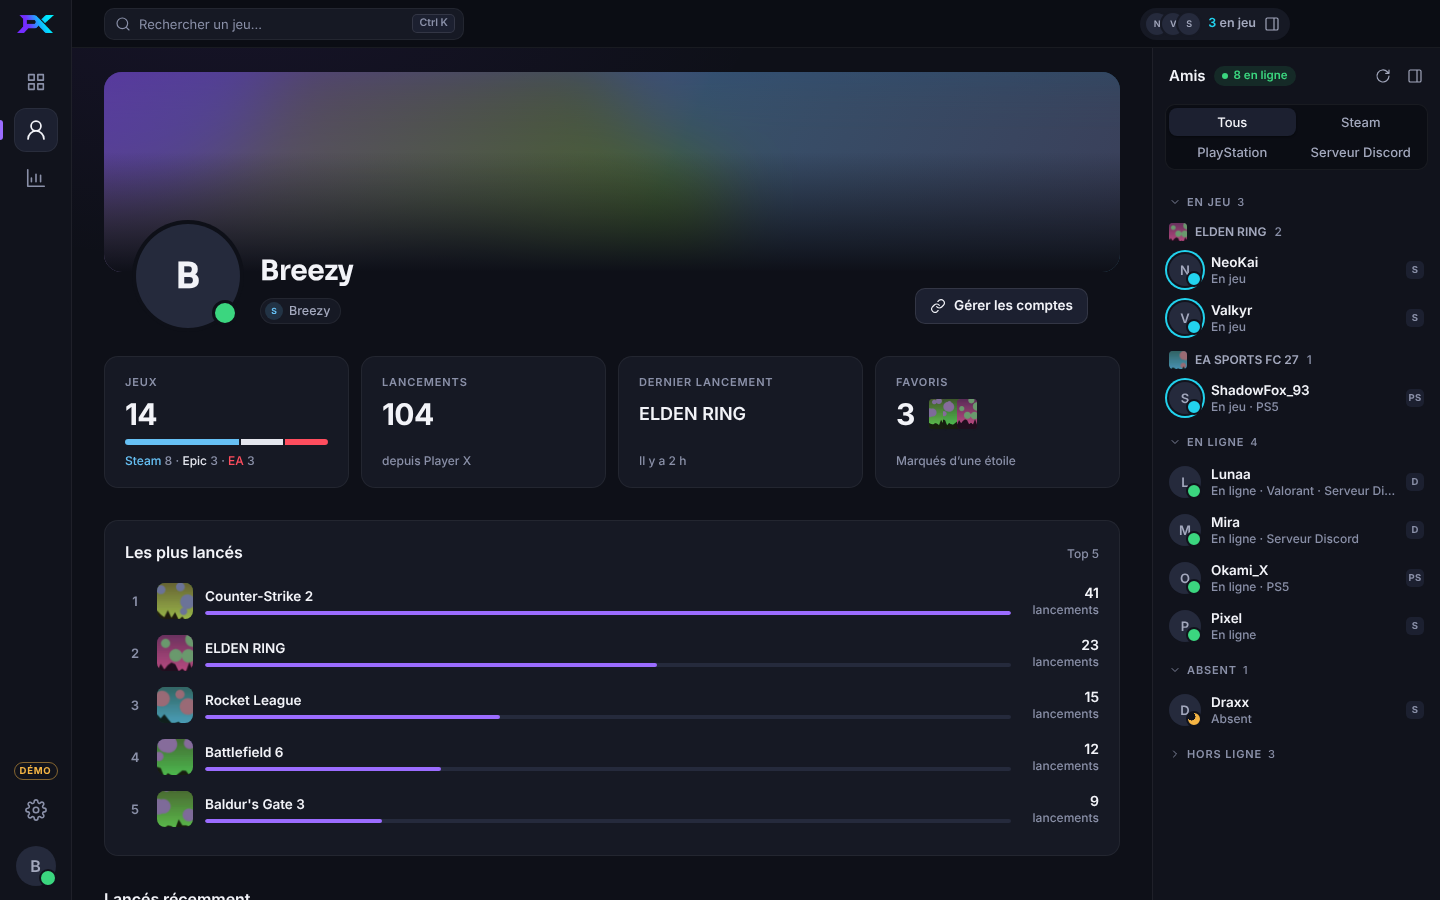
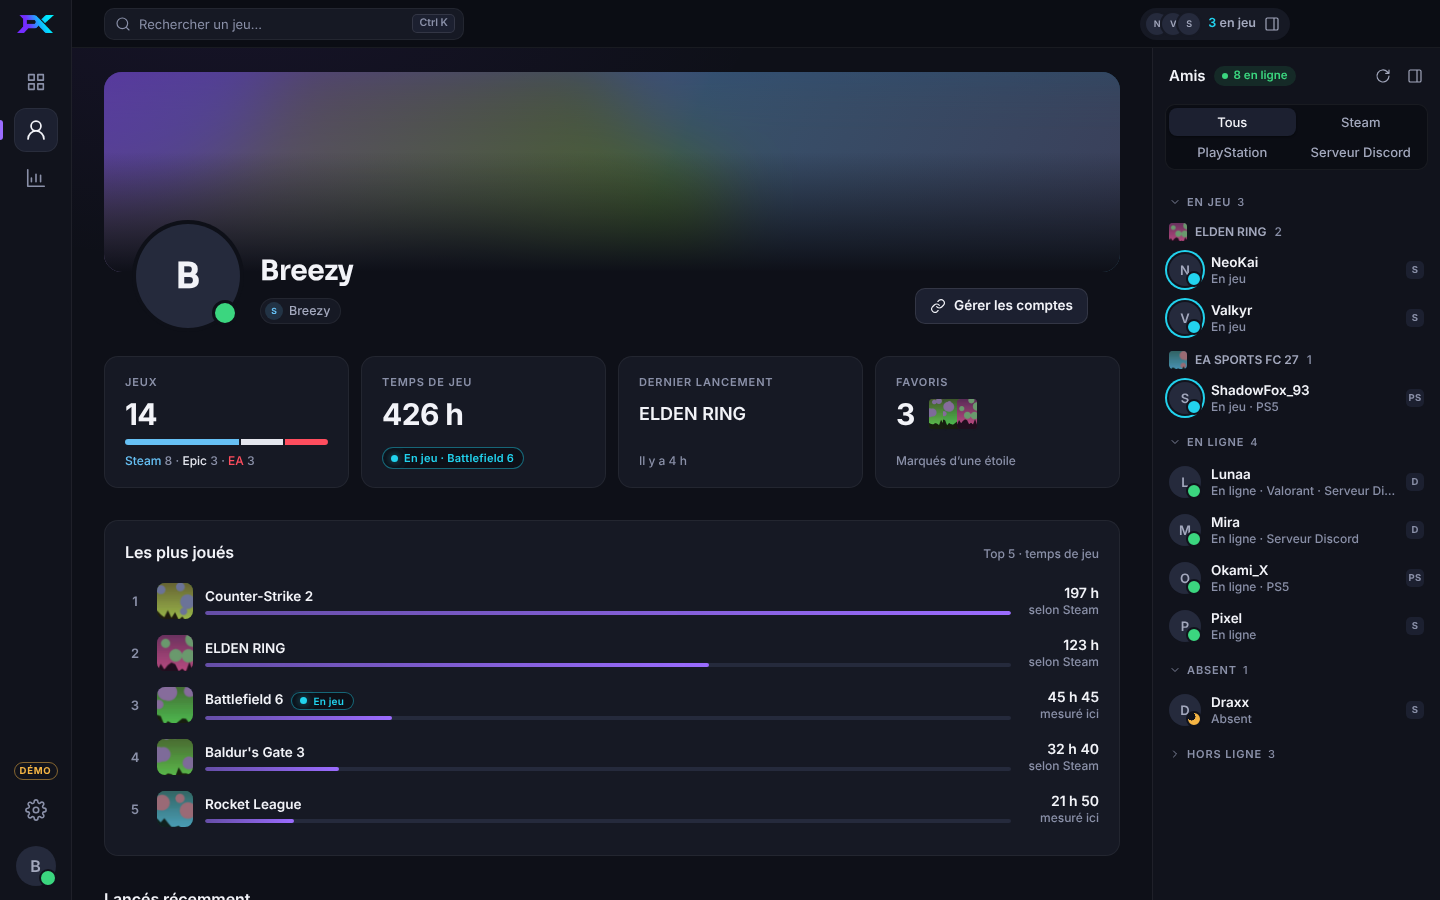
Version 0.5.0 : notes, README et captures, temps de jeu dans le héros
Claude-Session: https://claude.ai/code/session_01Mpz4pVRhYtCXL8zWhFpy97

diff --git a/src/renderer/src/components/library/Hero.tsx b/src/renderer/src/components/library/Hero.tsx
@@ -1,10 +1,11 @@
 import { useEffect, useMemo, useRef, useState } from 'react'
-import { cleanName, norm, plural, timeAgo } from '@shared/text'
+import { cleanName, formatPlaytime, norm, plural, timeAgo } from '@shared/text'
 import type { Friend, Game } from '@shared/types'
 import { follow, fxOn, setArtBase } from '../../motion'
 import { Avatar } from '../ui/Avatar'
 import { generatedBackground } from '../ui/Cover'
 import { Icon } from '../ui/Icon'
+import { LiveBadge } from '../ui/LiveBadge'
 import { StoreTag } from '../ui/StoreTag'
 import { FavStar, usePop } from './GameCard'
 import './hero.css'
@@ -309,7 +310,12 @@ function HeroBody({ game, kicker, slide, launching, onLaunch, onOpen, onFavorite
       <div className="hero-meta">
         <StoreTag kind={game.store} long />
         <span>{game.lastPlayed ? `Lancé ${timeAgo(game.lastPlayed)}` : 'Jamais lancé depuis Player X'}</span>
-        {!!game.launches && <span className="num">{plural(game.launches, 'lancement', 'lancements')}</span>}
+        {game.playtime ? (
+          <span className="num">{formatPlaytime(game.playtime)} de jeu</span>
+        ) : (
+          !!game.launches && <span className="num">{plural(game.launches, 'lancement', 'lancements')}</span>
+        )}
+        {game.running && <LiveBadge />}
       </div>
       <div className="hero-actions">
         <button className={`btn btn-primary btn-play ${launching ? 'is-launching' : ''}`} data-magnetic="" disabled={launching} onClick={() => onLaunch(game)}>

diff --git a/src/renderer/src/components/library/RecentShelf.tsx b/src/renderer/src/components/library/RecentShelf.tsx
@@ -35,8 +35,7 @@ export function RecentShelf({ games, launchingId, onOpen, onLaunch, onSeeAll }: 
     const onTransitionEnd = (e: TransitionEvent): void => {
       if (e.propertyName !== 'flex-basis' || !(e.target instanceof HTMLElement)) return
       update()
-      if (e.target.matches(':has(:focus-visible)'))
-        e.target.scrollIntoView({ block: 'nearest', inline: 'nearest', behavior: motionReduced() ? 'auto' : 'smooth' })
+      if (e.target.matches(':has(:focus-visible)')) e.target.scrollIntoView({ block: 'nearest', inline: 'nearest', behavior: motionReduced() ? 'auto' : 'smooth' })
     }
     update()
     const ro = new ResizeObserver(update)
@@ -156,13 +155,7 @@ function ShelfTile({ game, launching, track, onOpen, onLaunch }: TileProps): Rea
       </div>
       {/* Toute la tuile ouvre la fiche ; le bouton rond lance le jeu. */}
       <button className="shelf-tile-open" aria-label={`${name}, ${meta}`} title={name} onClick={open} />
-      <button
-        className="shelf-tile-play"
-        aria-label={`Jouer à ${name}`}
-        title={launching ? 'Lancement…' : 'Jouer'}
-        disabled={launching}
-        onClick={() => onLaunch(game)}
-      >
+      <button className="shelf-tile-play" aria-label={`Jouer à ${name}`} title={launching ? 'Lancement…' : 'Jouer'} disabled={launching} onClick={() => onLaunch(game)}>
         {launching ? <span className="spinner" /> : <Icon name="play" size={16} />}
       </button>
     </div>

diff --git a/README.md b/README.md
@@ -1,6 +1,6 @@
 # Player X (prototype)
 
-Launcher de bureau qui regroupe tes jeux **Steam, Epic Games et EA**, montre **quels amis sont en ligne** (Steam, PlayStation, serveur Discord) et affiche tes **stats Battlefield 6**.
+Launcher de bureau qui regroupe tes jeux **Steam, Epic Games et EA**, compte ton **temps de jeu**, te prévient quand **tes amis se connectent** (Steam, PlayStation, serveur Discord) et suit ta **progression Battlefield 6**.
 
 ![Bibliothèque](docs/screenshots/bibliotheque.png)
 
@@ -20,6 +20,18 @@ Sur l’écran d’accueil, **Essayer le mode démo** remplit l’interface avec
 
 Pour fabriquer l’installeur Windows : `npm run dist` (sortie dans `dist/`). Depuis Linux, il faut `wine64` et `wine32:i386`.
 
+## Temps de jeu
+
+![Fiche d'un jeu en cours](docs/screenshots/fiche-en-jeu.png)
+
+Toutes les minutes, Player X regarde quels programmes tournent et les rattache au dossier d'installation de tes jeux : le temps compte aussi pour un jeu lancé hors du launcher, tant que Player X est ouvert (même réduit). Pour les jeux Steam, Player X reprend le compteur de Steam (tout ton historique) dès que ta clé Steam Web API est renseignée et que les détails de jeu de ton profil sont publics. Le jeu qui tourne porte une pastille cyan **En jeu**, et la bibliothèque se trie par **Plus joués**.
+
+## Alertes d'amis
+
+![Alertes d'amis](docs/screenshots/alertes-amis.png)
+
+Quand un ami Steam ou PlayStation se connecte ou lance un jeu, une carte apparaît en haut à droite de Player X. Si la fenêtre est en arrière-plan, c'est une notification Windows (Windows les met de côté pendant un jeu en plein écran). Les membres d'un serveur Discord ne déclenchent pas d'alerte : ce ne sont pas des amis. Règle-les dans **Paramètres › Interface** : tout, seulement les jeux lancés, ou aucune, avec un bouton **Tester**.
+
 ## Stats de jeu : Battlefield 6
 
 ![Stats Battlefield 6](docs/screenshots/stats-bf6.png)
@@ -28,13 +40,17 @@ Cherche ton pseudo EA, Steam, PlayStation ou Xbox : la page montre ratio K/D, ki
 
 ![Détail par arme](docs/screenshots/stats-bf6-armes.png)
 
+**Progression** : Player X garde un relevé de tes stats par jour (à chaque visite de la page, et en arrière-plan si le dernier date de plus de 20 heures) et trace ta courbe de K/D, d'éliminations par minute ou de victoires, sur 7 jours, 30 jours ou depuis le début, avec tes éliminations, tes parties et ton temps de jeu sur la période. Les relevés restent sur ton PC.
+
+![Progression Battlefield 6](docs/screenshots/progression-bf6.png)
+
 EA ne propose pas d’API publique pour Battlefield 6. Les chiffres viennent de [gametools.network](https://gametools.network), un service communautaire non officiel, sans clé : il peut être lent ou indisponible, et la recherche est limitée à environ une requête toutes les 30 secondes. Les stats sont gardées en cache 10 minutes, et la dernière lecture reste affichée hors ligne. Les visuels du jeu viennent de la page Steam de Battlefield 6.
 
 ## Profil
 
 ![Profil](docs/screenshots/profil.png)
 
-Tes jeux par plateforme, les plus lancés et les derniers lancements depuis Player X.
+Ton temps de jeu total, tes jeux les plus joués, tes jeux par plateforme et tes derniers lancements depuis Player X.
 
 ## Mises à jour
 
@@ -56,10 +72,10 @@ Player X vérifie les [GitHub Releases](https://github.com/Moon-ItachiDEV/player
 
 Pour publier une version :
 
-1. Monte la version : `npm version 0.4.2 --no-git-tag-version` (met à jour `package.json` et `package-lock.json`).
+1. Monte la version : `npm version 0.5.0 --no-git-tag-version` (met à jour `package.json` et `package-lock.json`).
 2. Écris les notes dans `docs/release-notes/<version>.md` : elles servent à la fois pour la release GitHub et pour la fenêtre « Quoi de neuf ».
 3. Commit et pousse sur `main`.
-4. Lance l’action [`release.yml`](.github/workflows/release.yml) depuis l’onglet **Actions › Release › Run workflow** (elle crée le tag `v<version>`), ou pousse le tag toi-même : `git tag v0.4.2 && git push --tags`.
+4. Lance l’action [`release.yml`](.github/workflows/release.yml) depuis l’onglet **Actions › Release › Run workflow** (elle crée le tag `v<version>`), ou pousse le tag toi-même : `git tag v0.5.0 && git push --tags`.
 
 L’action construit l’installeur sous Windows et publie la release avec `Player-X-Setup-<version>.exe`, son `.blockmap` et `latest.yml` (le fichier que lit l’appli). Un tag poussé à la main doit correspondre à `version`, sinon l’action s’arrête.
 
@@ -77,7 +93,9 @@ L’action construit l’installeur sous Windows et publie la release avec `Play
 | Amis Steam | Steam Web API (clé gratuite, liste d’amis publique requise). |
 | Amis PlayStation | Non officiel, via [`psn-api`](https://github.com/achievements-app/psn-api) et ton jeton NPSSO. Peut casser sans prévenir. |
 | Discord | Discord ne donne pas la liste d’amis aux applis tierces. On affiche à la place les membres en ligne d’un serveur dont le **widget** est activé. |
-| Stats Battlefield 6 | Non officiel, via [gametools.network](https://gametools.network). Recherche multi-plateforme, rivaux suivis, cache local. |
+| Temps de jeu | Processus en cours rattachés au dossier d’installation (Windows, PowerShell `Get-Process`), compteur Steam via `IPlayerService/GetOwnedGames`. |
+| Alertes d’amis | Différence entre deux lectures de la liste d’amis ; carte dans l’appli ou notification Windows. |
+| Stats Battlefield 6 | Non officiel, via [gametools.network](https://gametools.network). Recherche multi-plateforme, rivaux suivis, cache local, relevé quotidien pour la progression. |
 | Profil | Jeux par plateforme, jeux les plus lancés et derniers lancements depuis Player X. |
 | Mises à jour | `electron-updater` et GitHub Releases : progression, redémarrage après 10 s, fenêtre « Quoi de neuf ». |
 | Favoris, historique | Stockés en local. |
@@ -107,11 +125,11 @@ Direction « Nuit Néon » : fond graphite, violet comme seule couleur de marque
 ```
 src/
   main/          processus Electron : base SQLite, scan des jeux, logins, amis, stats
-    services/    games.ts, artwork.ts, auth.ts, friends.ts, stats.ts, settings.ts, demo.ts, updater.ts
+    services/    games.ts, artwork.ts, auth.ts, friends.ts, alerts.ts, playtime.ts, stats.ts, settings.ts, demo.ts, updater.ts
   preload/       pont sécurisé main ↔ interface
   renderer/src/
     components/  library/, friends/, stats/, settings/, setup/, ui/, GameSheet, Profile, Login, Rail, TopBar,
-                 UpdateNotice (bandeau de mise à jour), WhatsNew (fenêtre « Quoi de neuf »)
+                 UpdateNotice (bandeau de mise à jour), WhatsNew (fenêtre « Quoi de neuf »), FriendAlerts (alertes d’amis)
     styles/      tokens.css, base.css, shell.css
   shared/        types et fonctions de texte communs
 docs/

diff --git a/docs/release-notes/0.5.0.md b/docs/release-notes/0.5.0.md
@@ -1,0 +1,18 @@
+## Nouveautés
+
+- **Temps de jeu** : Player X compte tes heures sur chaque jeu, même lancé hors du launcher, tant qu'il est ouvert. Pour les jeux Steam, il reprend le compteur de Steam (tout ton historique) quand ta clé Steam Web API est renseignée. Tu le vois sur chaque jaquette, sur la fiche du jeu, et dans ton profil avec le classement « Les plus joués ». Nouveau tri « Plus joués » dans la bibliothèque.
+- **En jeu** : une pastille cyan s'allume sur le jeu qui tourne en ce moment.
+- **Alertes d'amis** : quand un ami Steam ou PlayStation se connecte ou lance un jeu, une carte apparaît dans Player X, ou une notification Windows si tu es ailleurs. Règle-les dans **Paramètres › Interface** (tout, seulement les jeux, ou aucune) et teste-les avec le bouton **Tester**.
+- **Progression Battlefield 6** : Player X garde un relevé de tes stats chaque jour et dessine ta courbe de K/D, d'éliminations par minute et de victoires sur 7 jours, 30 jours ou depuis le début, avec ce que tu as fait sur la période. La courbe commence le jour où tu installes cette version.
+- **Animations** : chiffres qui montent, barres qui se remplissent, courbe qui se dessine, cartes d'amis qui glissent. Tout se coupe avec « Effets visuels » ou « Réduire les animations ».
+
+## Corrections
+
+- La fenêtre « Quoi de neuf » ne s'ouvre plus juste après la première installation.
+- Page Stats : plusieurs corrections d'affichage et de cache.
+
+## Installer
+
+Télécharge `Player-X-Setup-0.5.0.exe` ci-dessous. Windows SmartScreen peut afficher un avertissement (installeur non signé) : **Informations complémentaires** puis **Exécuter quand même**.
+
+Si tu as déjà la 0.4.0 ou plus récente, rien à faire : la mise à jour arrive toute seule.
